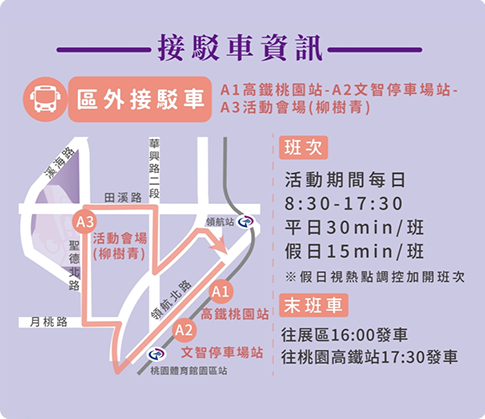
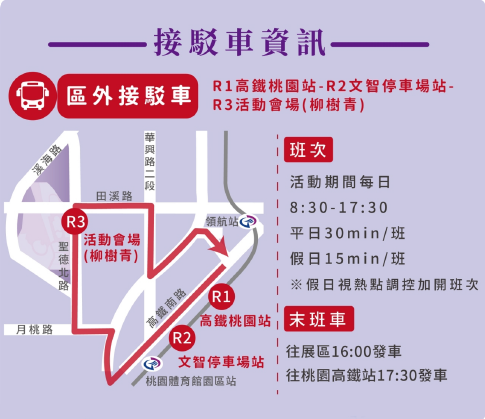
fix v7

diff --git a/traffic.html b/traffic.html
@@ -138,7 +138,7 @@
                       <div class="col-12"><p class="text-green h3">接駁車 - 區外</p></div>
 
                       <div class="col-md-2 col"><p class="fs-5 text-white fw-bold">站 點：</p></div>
-                      <div class="col-9"><p class="fs-5 text-white">A1高鐵桃園站 → A2文智停車場站 → A3活動會場(柳樹青)</p></div>
+                      <div class="col-9"><p class="fs-5 text-white">R1高鐵桃園站 → R2文智停車場站 → R3活動會場(柳樹青)</p></div>
 
                       <div class="col-md-2 col"><p class="fs-5 text-white fw-bold">班 次：</p></div>
                       <div class="col-9"><p class="fs-5 text-white">活動期間每日8:30-17:30。</br>平日30min/班、假日15min/班。</br><em>※假日視熱點調控加開班次</em></div>
@@ -215,6 +215,38 @@
                 </div>
               </div>
               <div class="col-12 py-5"><img src="images/doot1000.svg" class="img-fluid"></div>
+
+              <!-- 01 遊覽車交通資訊 -->
+              <div class="col-12">
+                <div class="row">
+                  <div class="col-12"><p class="flower-name before-yellow">遊覽車交通資訊</p></div>
+                  <div class="col-md-6 col-12">
+                    <div class="row">
+                      <!-- <div class="col-12"><p class="text-green h3">接駁車 - 區外</p></div> -->
+
+                      <div class="col-12"><p class="fs-5 text-white">乘客可於聖德北路指定點上下車（近甲好羊肉爐），
+【田溪路以南嚴禁下客！！】
+違規客運及旅行社將不再開放入場。</br></br>
+</p></div>
+
+                      <div class="col-12"><p class="fs-5 text-white fw-bold">進出路線資訊：</p></div>
+                      <div class="col-9"><p class="fs-5 text-white">遊覽車單向進出，由月桃路右轉聖德北路往北進入管制區，由田溪路往東駛出管制區。</br></br>
+</div>
+
+                      <div class="col-auto"><p class="fs-5 text-white fw-bold">瀏覽車停車資訊：</p></div>
+                      <div class="col-9"><p class="fs-5 text-white">請將車輛停放於指定停車場：</br>
+1.聖德北路538號道路單側往北</br>
+2.免費停車場：陽程科技</br>
+桃園市大園區聖德北路68號</br>(GPS：25.047104, 121.190918)</br>
+※僅假日開放
+</p></div>
+                    </div>
+                  </div>
+                  <div class="col-md-6 col-12"><img src="images/traffic/traffic06.png" class="img-fluid" alt=""></div>
+                </div>
+              </div>
+              <div class="col-12 py-5"><img src="images/doot1000.svg" class="img-fluid"></div>
+
 
             </div>
 

diff --git a/diy.html b/diy.html
@@ -198,7 +198,7 @@
                   <h5 class="card-header bg-Lblue text-white">智慧科技類</h5>
                    <div class="card-body">
                     <h5 class="card-title text-Lblue h3">園藝自動澆水DIY</h5>
-                    <h6 class="card-subtitle mb-3 text-muted h4">4/8(日)11:00-12:00</h6>
+                    <h6 class="card-subtitle mb-3 text-muted h4">4/8(六)11:00-12:00</h6>
                     <p class="card-text">日益精湛技術的農產業，讓我們能看到大片的美麗海芋實為功不可沒，此次課程將帶您組裝簡易的「園藝自動澆水器」，體驗智慧農業帶來的功能與便利。</p>
                     <p class="em mb-3 text-note">3/24(五) 早上10:00開放報名</p>
                     <a href="https://www.beclass.com/rid=274b0aa640ff66bbc934
@@ -212,7 +212,7 @@
                   <h5 class="card-header bg-red text-white">繪畫類</h5>
                    <div class="card-body">
                     <h5 class="card-title text-red h3">彩芋花世界</h5>
-                    <h6 class="card-subtitle mb-3 text-muted h4">4/9(六) 11:00-12:00</h6>
+                    <h6 class="card-subtitle mb-3 text-muted h4">4/9(日) 11:00-12:00</h6>
                     <p class="card-text">漫步在會場間，是否讓您心生駐足，想將此刻的美景留下的衝動？除了人手一機的捕捉外，本次課程將帶領您使用特別的刮畫繪製模式，留下獨樹一格的海芋倩影。</p>
                     <p class="em mb-3 text-note">3/24(五) 早上10:00開放報名</p>
                     <a href="https://www.beclass.com/rid=274b0aa640ff748d110b

diff --git a/farm01.html b/farm01.html
@@ -307,7 +307,7 @@
                         </div>
                       </div>
 
-                      <div class="col-12">
+                      <!-- <div class="col-12">
                         <div class="card h-100">
                           <h5 class="card-header bg-Dorange text-white">體驗活動二</h5>
                           <div class="card-body">
@@ -351,7 +351,7 @@
                             </div>
                           </div>
                         </div>
-                      </div>
+                      </div> -->
                     </div>
                   </div>
                 </div>
@@ -974,7 +974,7 @@
             <div class="col-12"><p class="h5 text-white">達人帶路小旅行-農庄導覽活動</p></div>
 
             <div class="col-12">
-              <p class="h5 text-white">彩芋季活動期間每日上午09:00、下午14:00各一場次</p>
+              <p class="h5 text-white">彩芋季活動期間每日上午10:00、下午14:00各一場次</p>
               <p class="h5 text-white">需預約報名，活動詳情請洽報名頁面</br></br></p>
               <p class="h5 text-white">報名連結：<a href="https://www.beclass.com/rid=274b0b16418d59b5f36a" class="link-info" target="_blank">點我報名</a></p>
               <p class="h5 text-white">※導覽路線於彩芋季會場報到，搭乘園區接駁車。</p>

diff --git a/event.html b/event.html
@@ -377,7 +377,7 @@
                   <h5 class="card-header bg-Redpink text-white">表演節目 - 音樂下午茶</h5>
                    <div class="card-body">
                     <h5 class="card-title text-Redpink h3">自己｜心靈交響</h5>
-                    <h6 class="card-subtitle mb-3 text-muted h4">龍潭愛樂管弦樂團</h6>
+                    <h6 class="card-subtitle mb-3 text-muted h4">龍潭愛樂管弦樂團《桃園彩色海芋季音樂會》</h6>
                     <h6 class="card-subtitle mb-3 text-muted h4">4/8(六) 15:00-16:00 【特邀演出】</h6>
                     <p class="card-text fw-bold text-Redpink mb-0">活動地點：</p>
                     <p class="card-text">舞台區</p>
